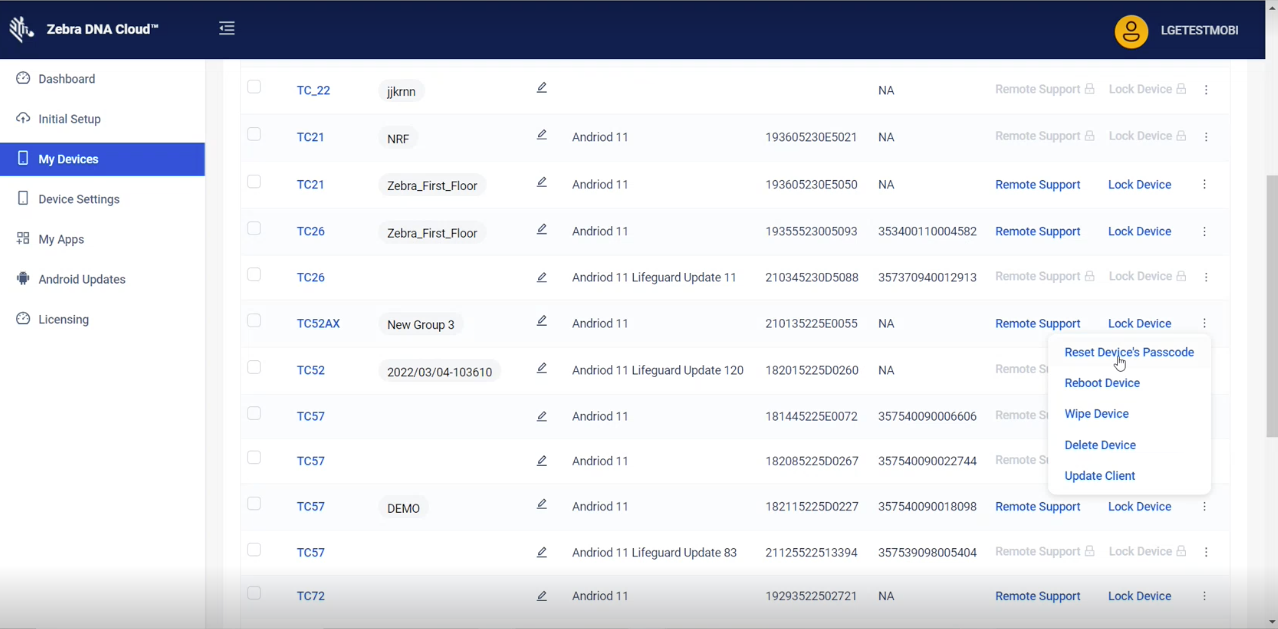
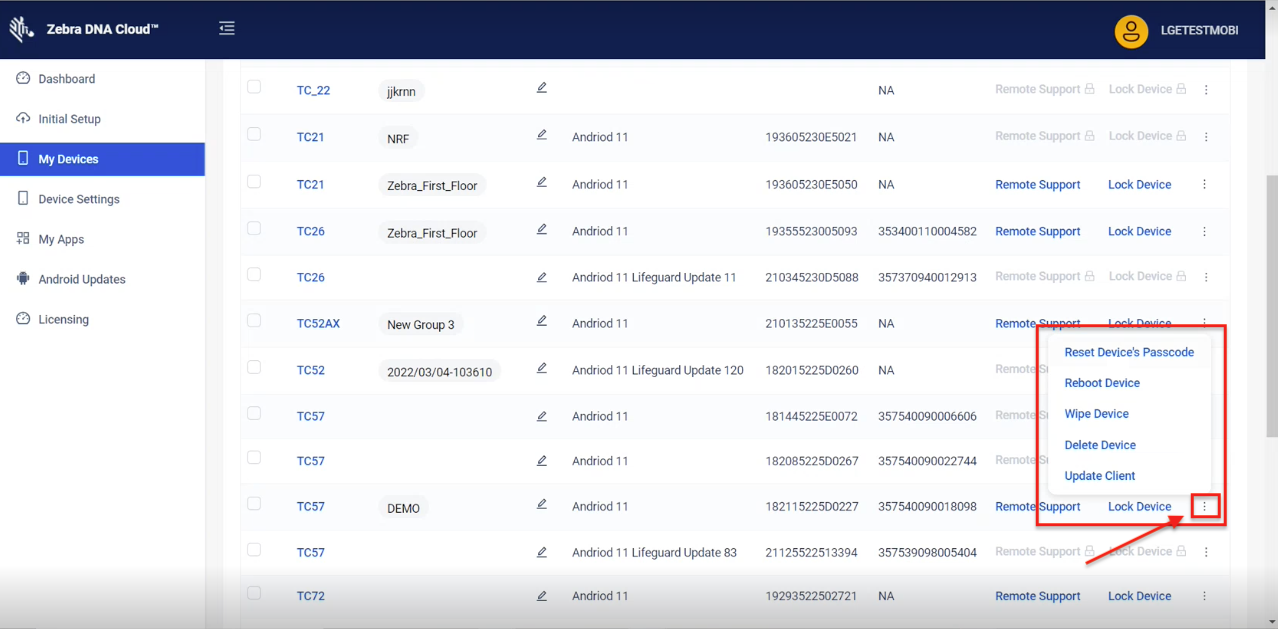
[TUT-66449] zDNA 1.0 correx, updates, per eng

Changed region(s): [[0.7934, 0.5135, 0.9765, 0.9062]]

diff --git a/zebradna/1-0/usage/index.html b/zebradna/1-0/usage/index.html
@@ -254,14 +254,12 @@
 
 <h3 id="createsettingsprofile" class="anchor"><a class="heading-anchor" href="#createsettingsprofile"><span></span></a>Create Settings Profile</h3>
 
-<ol>
-<li>In the "Configuration Profiles" section, <strong>select a Profile type</strong>:<br>
-<strong>Wizard -</strong> Presents configuration parameters with the most common options pre-selected<br>
-<strong>Advanced -</strong> Presents all available configuration parameters with default options selected <a href="#useadvancedsettings">Go to Advanced Settings</a>
+<p>To begin, <strong>select a Profile type</strong> in the "Configuration Profiles" section:<br>
+<strong>Wizard -</strong> Presents configuration parameters with the most common options pre-selected (<a href="#usesettingswizard">shown immediately below</a>)<br>
+<strong>Advanced -</strong> Presents all available configuration parameters with default options selected <a href="#useadvancedsettings">skip to Advanced Settings</a>
 <img alt="image" style="height:350px" src="settings_1.png">
 <em>Click image to enlarge; ESC to exit.</em>
-<br></li>
-</ol>
+<br></p>
 
 <h3 id="usesettingswizard" class="anchor"><a class="heading-anchor" href="#usesettingswizard"><span></span></a>Use Settings Wizard</h3>
 
@@ -372,7 +370,15 @@
 
 <h2 id="managingdevices" class="anchor"><a class="heading-anchor" href="#managingdevices"><span></span></a>Managing Devices</h2>
 
-<p><strong>5. From the My Devices screen, the following actions can be executed remotely</strong> on any enrolled device: 
+<p>This section covers maintenance of devices <strong>after they have been enrolled in the system</strong>. To enroll devices in zDNA Cloud for the first time, <a href="../setup/#iiienrolldevices">see Enroll Devices</a> in the Setup Section. </p>
+
+<hr>
+
+<h3 id="deviceactions" class="anchor"><a class="heading-anchor" href="#deviceactions"><span></span></a>Device Actions</h3>
+
+<h4 id="onindividualdevices" class="anchor"><a class="heading-anchor" href="#onindividualdevices"><span></span></a>On Individual Devices</h4>
+
+<p><strong>From the My Devices screen, the following actions can be executed remotely</strong> on enrolled device(s): 
 <img alt="image" style="height:350px" src="Device actions.png">
 <em>Click image to enlarge; ESC to exit.</em>
 <br></p>
@@ -382,18 +388,35 @@
 
 <li><strong>Reboot Device -</strong> causes all apps to quit and restarts the device </li>
 
-<li><strong>Wipe Device -</strong> erases all user apps and data; resets the device to its factory-fresh state</li>
+<li><strong>Wipe Device -</strong> resets the device to its factory-fresh state, <strong>permanently erasing all user apps and data</strong></li>
 
-<li><strong>Delete Device -</strong> removes zDNA client app from device and removes device from zDNA Cloud system </li>
+<li><strong>Delete Device -</strong> removes zDNA client app from device, de-enrolls device from zDNA Cloud system; other apps and settings on device remain unchanged </li>
 
 <li><strong>Update zDNA Client -</strong> checks the client app on the device and pushes an update, if necessary </li>
 </ul>
 
+<h4 id="onmultipledevices" class="anchor"><a class="heading-anchor" href="#onmultipledevices"><span></span></a>On Multiple Devices</h4>
+
+<p><strong>Select one or more devices to activate the "Bulk Actions" button</strong>: 
+<img alt="image" style="height:350px" src="manage_devices_02.png">
+<em>Click image to enlarge; ESC to exit.</em>
+<br></p>
+
 <hr>
 
-<h3 id="creatingdevicegroups" class="anchor"><a class="heading-anchor" href="#creatingdevicegroups"><span></span></a>Creating Device Groups</h3>
+<p><strong>Click on a Device name</strong> to display its details.<br>
+<i class="fa fa-check-circle" style="color:#27AE60;"></i> <strong>Device name and Device group</strong> fields can be edited here: 
+<img alt="image" style="height:350px" src="manage_devices_03.png">
+<em>Click image to enlarge; ESC to exit.</em>
+<br></p>
 
-<p><strong>5. Click on the pencil icon</strong> in a device's row to manage its device group(s).<br>
+<hr>
+
+<h3 id="devicegroups" class="anchor"><a class="heading-anchor" href="#devicegroups"><span></span></a>Device Groups</h3>
+
+<p>To perform actions on a group of devices, it's helpful to create and place devices into one or more Groups. Devices added to Groups <em>after</em> an action is initially executed automatically receive the configuration settings of that Group. Groups can be created and devices added during enrollment or at any time thereafter. </p>
+
+<p><strong>Click on the pencil icon</strong> in a device's row to manage the Group(s) it belongs to.<br>
 <i class="fa fa-exclamation-circle" aria-hidden="true" style="color:#FF0000;"></i> This action might effect <a href="#iiilicensing">device licensing</a>
 <img alt="image" style="height:350px" src="manage device group.png">
 <em>Click image to enlarge; ESC to exit.</em>
@@ -401,19 +424,9 @@
 
 <hr>
 
-<p><strong>5. Click on a Device name</strong> to display its details.<br>
-<i class="fa fa-check-circle" style="color:#27AE60;"></i> <strong>Device name and Device group</strong> fields can be edited here: 
-<img alt="image" style="height:350px" src="Device details.png">
-<em>Click image to enlarge; ESC to exit.</em>
-<br></p>
-
-<hr>
-
 <h2 id="managingapps" class="anchor"><a class="heading-anchor" href="#managingapps"><span></span></a>Managing Apps</h2>
 
-<p>This section covers installation and uninstallation of apps to devices, as well as deployment of related files, if any. </p>
-
-<hr>
+<p>This section covers installation and uninstallation of apps on devices and deployment of related files, if any. </p>
 
 <h4 id="toinstallappsandorappfilesononeormoredevices" class="anchor"><a class="heading-anchor" href="#toinstallappsandorappfilesononeormoredevices"><span></span></a>To install app(s) and/or app files on one or more devices:</h4>
 
@@ -464,50 +477,40 @@ When finished selecting target(s), <strong>click "Apply Now" to push changes</st
 
 <h2 id="administrativeusers" class="anchor"><a class="heading-anchor" href="#administrativeusers"><span></span></a>Administrative Users</h2>
 
-<p>The Tenant Owner creates Administrative Users in the zDNA Cloud system. They are capable of performing all tasks within the system <em>except</em> user admininstration. </p>
+<p>The Tenant Owner creates Administrative Users in the zDNA Cloud system. They are capable of performing all tasks within the system <em>except</em> user administration. </p>
 
-<ol>
-<li><strong>For first-time setup, click "Tenant Owner"</strong> and log in using Zebra.com credentials to create a zDNA Cloud instance:
+<p><strong>1. For first-time setup, click "Tenant Owner"</strong> and log in using Zebra.com credentials to create a zDNA Cloud instance:
 <img alt="image" style="height:350px" src="zDNA_login.png">
 <em>Click image to enlarge; ESC to exit.</em>
-<br></li>
-</ol>
+<br></p>
 
 <hr>
 
-<ol>
-<li>Click user icon for menu and <strong>select "Manage All Users"</strong> from the menu: 
+<p>2. Click user icon for menu and <strong>select "Manage All Users"</strong> from the menu: 
 <img alt="image" style="height:350px" src="user_admin_01.png">
 <em>Click image to enlarge; ESC to exit.</em>
-<br></li>
-</ol>
+<br></p>
 
 <hr>
 
-<ol>
-<li>In All Users screen, <strong>click "New User" button</strong>: 
+<p><strong>3. In All Users screen, **click "New User" button</strong>: 
 <img alt="image" style="height:350px" src="user_admin_01a.png">
 <em>Click image to enlarge; ESC to exit.</em>
-<br></li>
-</ol>
+<br></p>
 
 <hr>
 
-<ol>
-<li><strong>Enter user info and click "Add" buton</strong>:
+<p><strong>4. Enter user info and click "Add" button</strong>:
 <img alt="image" style="height:350px" src="user_admin_02.png">
 <em>Click image to enlarge; ESC to exit.</em>
-<br></li>
-</ol>
+<br></p>
 
 <hr>
 
-<ol>
-<li>New user appears in All Users list: <br>
+<p><strong>5. New user appears in All Users list</strong>: <br>
 <img alt="image" style="height:350px" src="user_admin_03.png">
 <em>Click image to enlarge; ESC to exit.</em>
-<br></li>
-</ol>
+<br></p>
 
 <hr>
 
